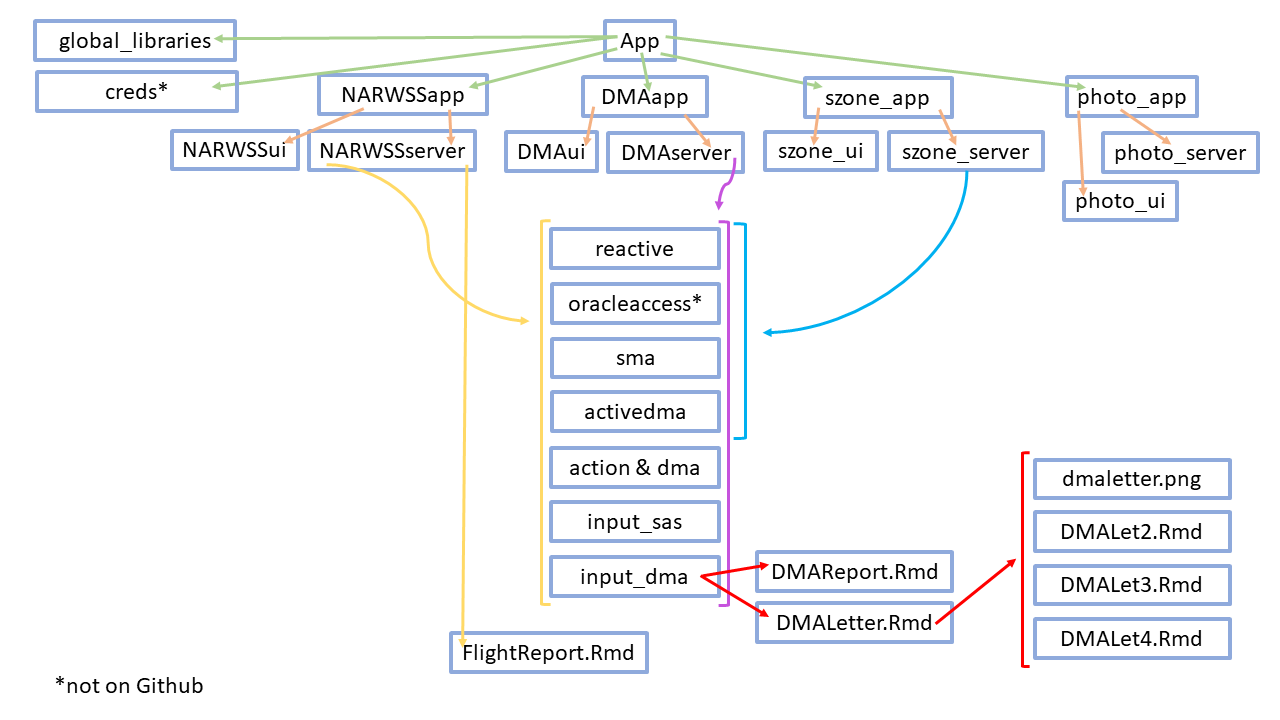
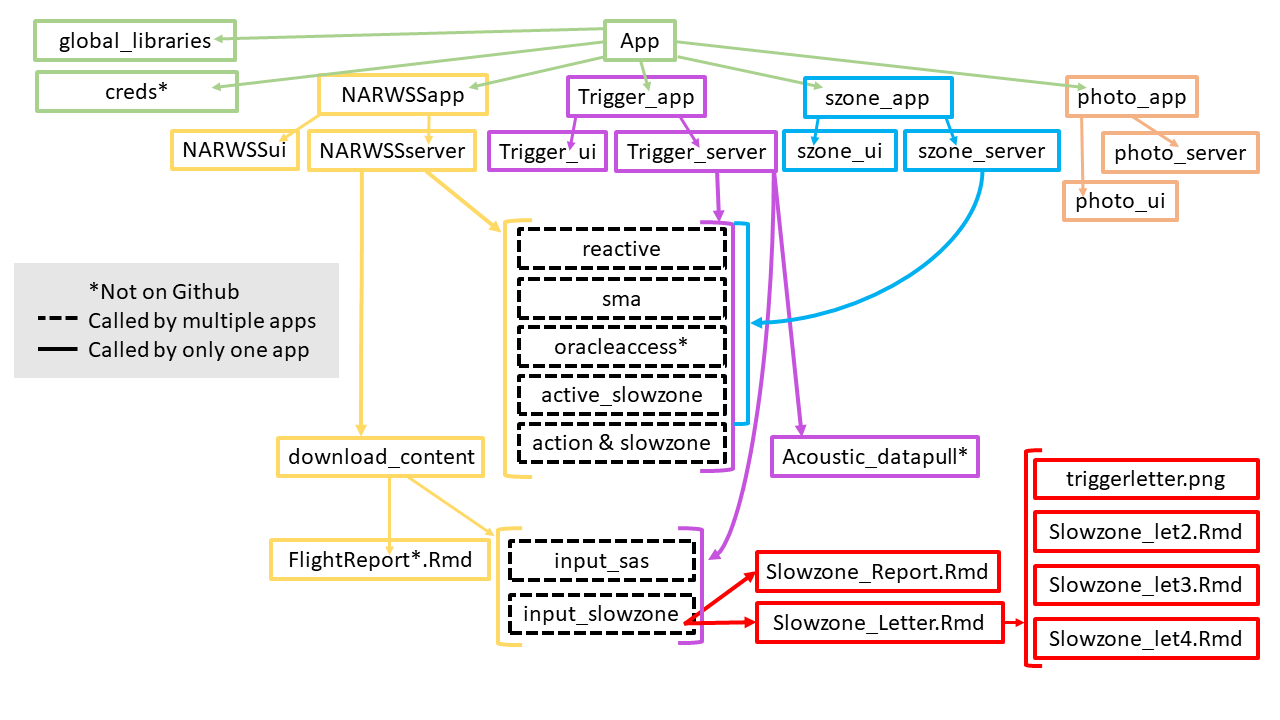
LMC changes

diff --git a/README.md b/README.md
@@ -1,53 +1,19 @@
 # narwss_rwsas_apps
 
-For more info on this app, please check out the Wiki as well as the section in the Shiny Book: https://nefsc.github.io/NEFSC-shiny-book/shiny-apps.html#northeast-right-whale-shiny-apps
+[![DOI](https://joss.theoj.org/papers/10.21105/joss.05436/status.svg)](https://doi.org/10.21105/joss.05436)
+[![DOI](https://zenodo.org/badge/DOI/10.5281/zenodo.8127594.svg)](https://doi.org/10.5281/zenodo.8127594)
+
+Welcome to the [North Atlantic Right Whale Sighting Survey (NARWSS)](https://www.fisheries.noaa.gov/new-england-mid-atlantic/marine-mammal-protection/whale-and-dolphin-research-northeast#north-atlantic-right-whale-sighting-surveys) and the [Right Whale Sighting Advisory System (RWSAS)](https://www.fisheries.noaa.gov/new-england-mid-atlantic/marine-mammal-protection/whale-and-dolphin-research-northeast#right-whale-sighting-advisory-system) apps repository!
+
+The NARWSS 'Aerial Survey Data Processing' tool, and the RWSAS 'Trigger Analysis' tool improve the workflow between data processing and the determination of potential [Right Whale Slow Zones](https://www.fisheries.noaa.gov/national/endangered-species-conservation/reducing-vessel-strikes-north-atlantic-right-whales). These tools provide a platform to efficiently process survey data to help eliminate sources of human error, integrate currently active management zones, determine if trigger criterion for a new dynamic protection zone have been met, calculate the boundaries of a proposed Slow Zone, and compile reports that are then sent on to managers and other stakeholders.
+
+The tools described here were developed for scientists at the [Northeast Fisheries Science Center (NEFSC)](https://www.fisheries.noaa.gov/about/northeast-fisheries-science-center) in their role as data stewards to support federal managers at the [Greater Atlantic Regional Fisheries Office](https://www.fisheries.noaa.gov/about/greater-atlantic-regional-fisheries-office); however, the data processing and reporting procedure will be of interest to wildlife survey and management teams with similar objectives. Additionally, these publicly available tools provide transparency and reproducibility of the process for declaring dynamic protection zones in the Northeast United States. These tools were written primarily using the R coding language and specifically leverage the 'Shiny' package.
+
+For more info on the suite of apps in this repo, please check out the [Wiki](https://github.com/NEFSC/READ-PSB-LWT-narwss_rwsas_apps/wiki) as well as [this section in this NEFSC Shiny Book](https://nefsc.github.io/NEFSC-shiny-book/shiny-apps.html#northeast-right-whale-shiny-apps). 
 
 ## Getting Started
 
-Required packages include:
-
-```
-
-library(data.table)
-library(DBI)
-library(dplyr)
-library(ellipsis)
-library(extrafont)
-library(fontcm)
-library(geosphere)
-library(ggplot2)
-library(htmlwidgets)
-library(igraph)
-library(knitr)
-library(leaflet)
-library(leaflet.esri)
-library(lubridate)
-library(maps)
-library(maptools)
-library(raster)
-library(RColorBrewer)
-library(reshape)
-library(rgeos)
-library(rgdal)
-library(rhandsontable)
-library(rlist)
-library(rmarkdown)
-library(RODBC)
-library(scales)
-library(sf)
-library(shiny)
-library(shinyjs)
-library(shinydashboard)
-library(shinymanager)
-library(sp)
-library(sqldf)
-library(stringi)
-library(tinytex)
-library(webshot)
-library(zoo)
-
-```
-## Additional installations
+### Additional installations for downloading PDFs
 
 `webshot::install_phantomjs()`
 
@@ -57,6 +23,10 @@ library(zoo)
 
 If you do not get TRUE when you run `tinytex:::is_tinytex()`, then you probably need to run this: `tinytex::install_tinytex(force=TRUE)`. More info on this process and the TinyTex package can be found here: https://yihui.name/tinytex/. Note the difference between tinytex the R package and TinyTeX the LaTeX distribution. Both commands above are needed. 
 
+### Troubleshooting PDF downloads
+
+If after doing the installations above you are still having trouble downloading PDFs, there are options to compile the report as an html page. See this [section of the wiki](https://github.com/NEFSC/READ-PSB-LWT-narwss_rwsas_apps/wiki/Aerial-Survey-Processing-App,-Aerial-Survey-Tab:-Part-3). Different computers have different setups related to LaTeX distributions which might be causing the issue.
+
 ## Running the App
 The app can be launched by running
 
@@ -64,12 +34,77 @@ The app can be launched by running
 
 in your RStudio environment. Click 'Run App' to get started. In the window that pops up, click "Open in Browser". 
 
+### Example data
 
+To take a spin with processing example aerial survey data and evaluating if sightings trigger SLOW zones, chose/enter the following details (NOTE: to download the report, you will have to host the [example data](https://github.com/NEFSC/READ-PSB-LWT-narwss_rwsas_apps/tree/master/example_data/210409) on a local path specific to your machine, and the SLOW zone analysis will then not be available):
+
+<img src="www/example_data.png" width="600">
+
+### There are several scenarios available to explore with different example survey days:
+
+* 210226: Visual sightings that fall within a Seasonal Management Area. One flight day, includes option to load previously editted eff/sig file.
+* 210407: Visual sightings that trigger a new SLOW Zone. One flight day, includes option to load previously editted eff/sig file.
+* 210409: Visual sightings that extend two active and overlapping SLOW Zones. Two flight day, no editted eff/sig file.
+* 210512: Visual sightings that fall within active SLOW Zones, but trigger no further action. One flight day, includes option to load previously editted eff/sig file.
+
+## Script Structure
+```
+app.R                       Starting App file that defines the dashboard for all apps in this repo
+scripts/
+  global_libraries.R        Required libraries
+  creds.R*                  Allowable credentials defined for accessing the Shiny app on the network server
+  
+  NARWSSapp.R               App file for the North Atlantic Right Whale Sighting Survey (NARWSS)vAerial Survey Processing App
+  NARWSSui.R                User interface for the NARWSS Aerial Survey Processing App
+  NARWSSserver.R            Server code for NARWSS Aerial Survey Processing App
+  
+  Trigger_app.R             App file for the Trigger Analysis App
+  Trigger_ui.R              User interface for the Trigger Analysis App
+  Trigger_server.R          Server code for the Trigger Analysis App
+    
+  szone_app.R               App file for the Slow Zone viewer App
+  szone_ui.R                User interface for the Slow Zone viewer App
+  szone_server.R            Server code for the Slow Zone viewer App
+  
+  photo_app.R               App file for the Photo Position Finder App
+  photo_ui.R                User interface for the Photo Position Finder App
+  photo_server.R            Server code for the Photo Position Finder App
+
+-- Files called by the server for the NARWSS Aerial Survey Processing App, Trigger Analysis App, and the Slow Zone viewer App --
+  reactive.R                Reactive values passed between different actions
+  sma.R                     Determines active Seasonal Management Areas based on the date
+  oracleaccess.R*           Credentials for accessing Oracle database
+  active_slowzone.R         Determines active Slow Zones based on the date
+  action & slowzone.R       Procedure for determining action codes and triggered Slow Zones for right whale detections
+
+-- Files called by the server for the NARWSS Aerial Survey Processing App --  
+  download_content.R        Content passed to download handler for flight report
+  FlightReport.Rmd          Template flight report
+
+-- Files called by the server for the NARWSS Aerial Survey Processing App and the Trigger Analysis App --  
+  input_sas.R               Detections formatted and uploaded to the Sighting Advisory System
+  input_slowzone.R          Triggered Slow Zone data formatted and uploaded to the database
+    slowzone_Report.Rmd     Template for Slow Zone report
+    slowzone_Letter.Rmd     Template for Slow Zone letter. Conditionally cycles through slowzone_let#.Rmd if more than one Slow Zone is triggered from one flight or on one day
+
+-- Files called by the server for the Trigger Analysis App --
+  Acoustic_datapull.R*      Queries right whale acoustic detections based on selected date  
+
+*not managed on GitHub
+```
 ## Script Flow Chart
 
 ![](www/scriptflow.png)
 
+## Contributions
 
+In the [NEFSC Shiny Book](https://nefsc.github.io/NEFSC-shiny-book/shiny-apps.html#northeast-right-whale-shiny-apps), you can find the point of contact for questions regarding this repository. In addition, problems can be reported, suggestions can be submitted, and questions can be asked via [this repository's issue tab](https://github.com/NEFSC/READ-PSB-LWT-narwss_rwsas_apps/issues). 
+
+For substantial suggestions/changes, please first open the discussion by submitting an [issue](https://github.com/NEFSC/READ-PSB-LWT-narwss_rwsas_apps/issues).
+
+This project, and everyone participating in it, is governed by [this Code of Conduct](https://github.com/nmfs-fish-tools/Resources/blob/main/CODE_OF_CONDUCT.md). By participating, you are expected to uphold this code.
+
+##
 
 This repository is a scientific product and is not official communication of the National Oceanic and Atmospheric Administration, or the United States Department of Commerce. All NOAA GitHub project code is provided on an ‘as is’ basis and the user assumes responsibility for its use. Any claims against the Department of Commerce or Department of Commerce bureaus stemming from the use of this GitHub project will be governed by all applicable Federal law. Any reference to specific commercial products, processes, or services by service mark, trademark, manufacturer, or otherwise, does not constitute or imply their endorsement, recommendation or favoring by the Department of Commerce. The Department of Commerce seal and logo, or the seal and logo of a DOC bureau, shall not be used in any manner to imply endorsement of any commercial product or activity by DOC or the United States Government.
 
